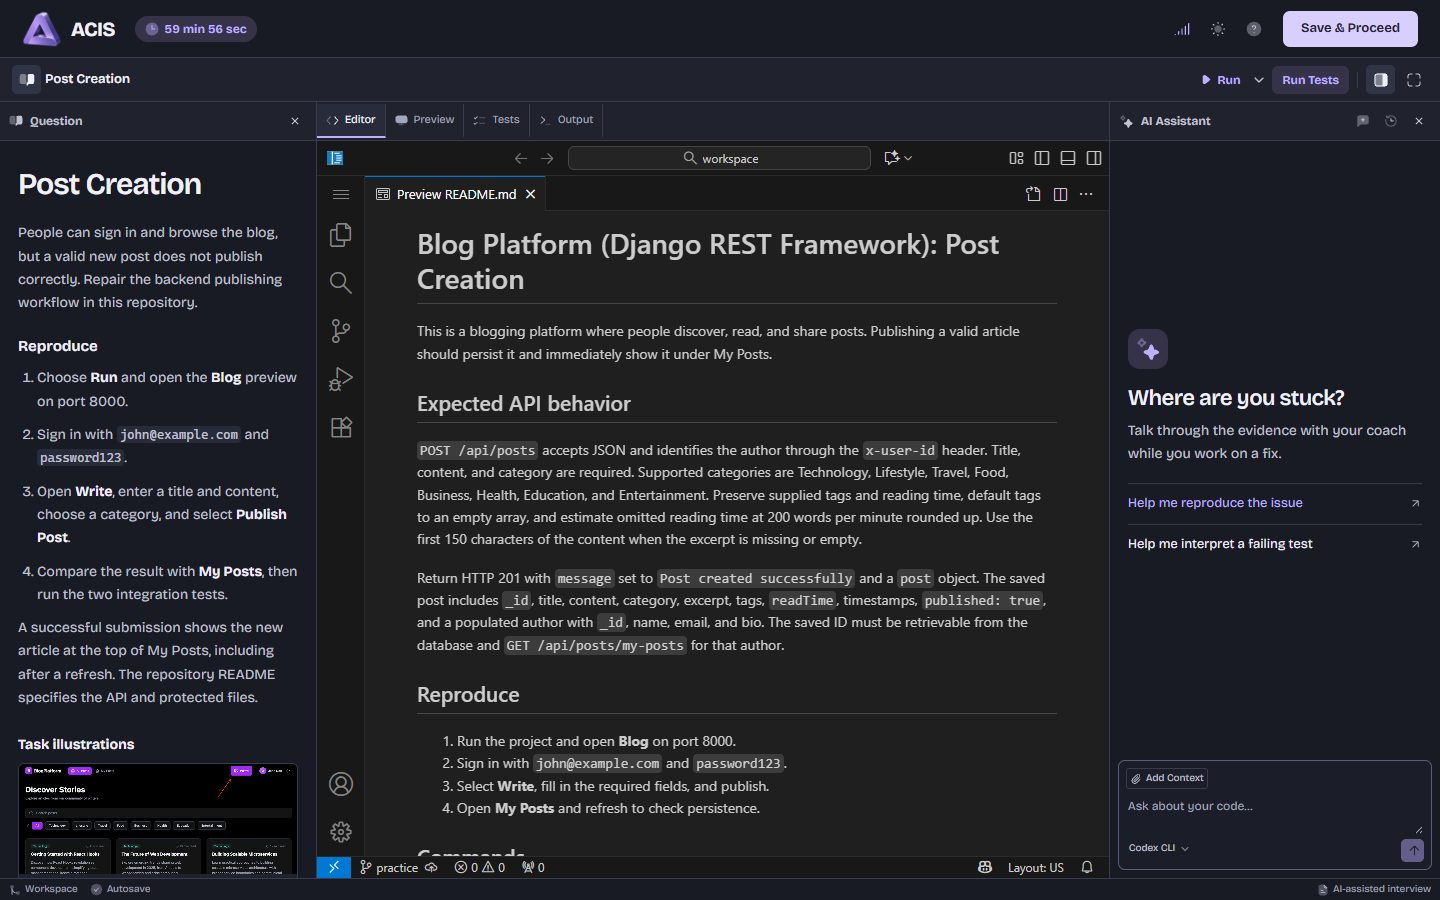
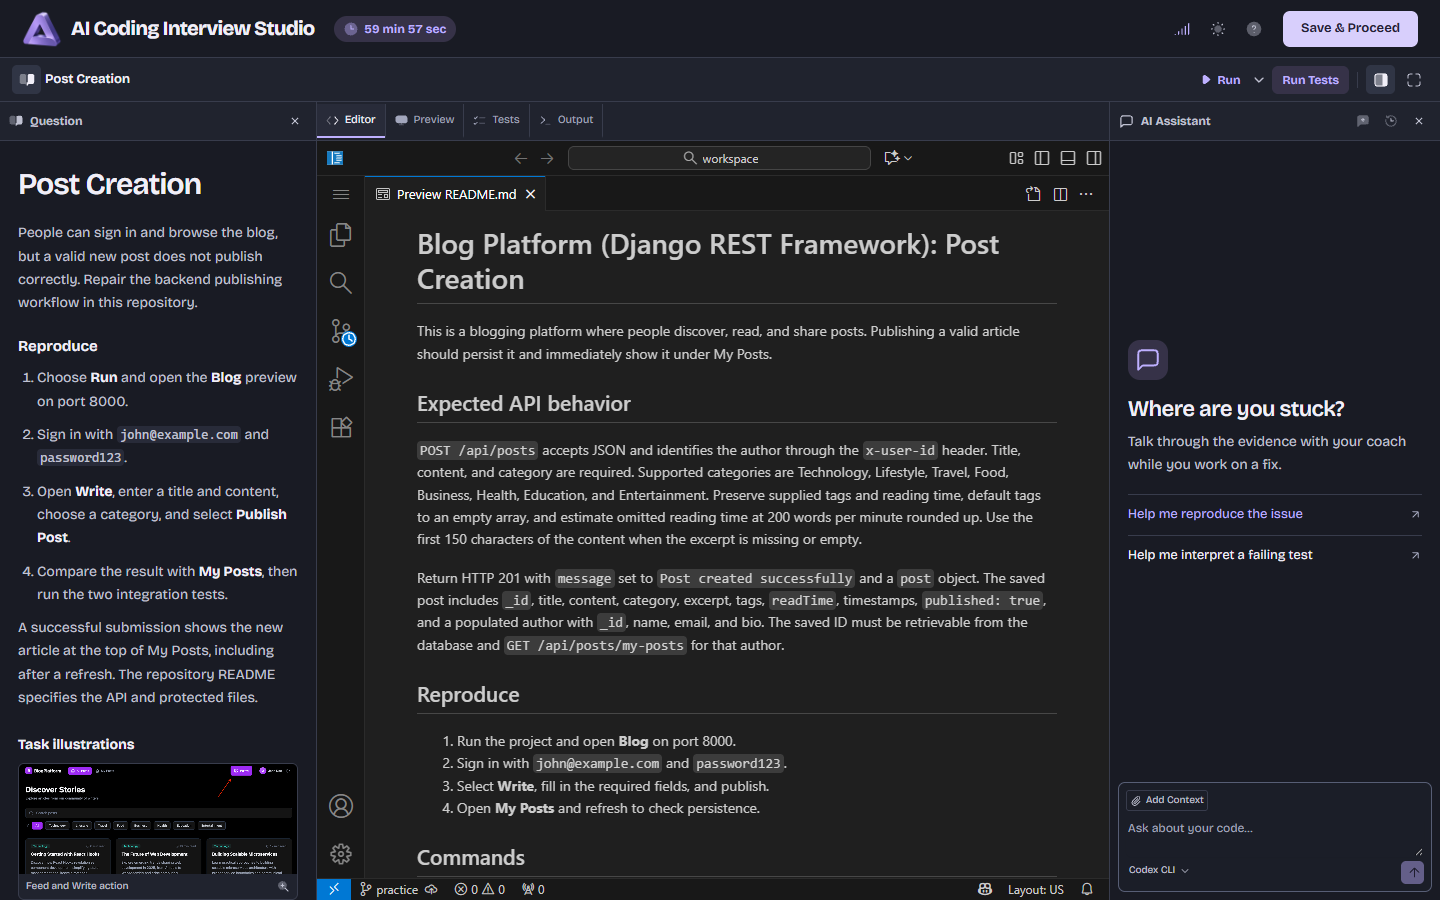
feat(ui): remove the interview status footer

diff --git a/web/tests/workbench.spec.ts b/web/tests/workbench.spec.ts
@@ -266,6 +266,24 @@ test('a learner can resume a running attempt above the phone catalog', async ({
   await expect(page.getByRole('button', { name: 'Save & Proceed' })).toBeInViewport({ ratio: 1 });
 });
 
+test('the interview editor reaches the bottom of the viewport on desktop and phone', async ({
+  page,
+  context,
+}) => {
+  await routeWorkbench(context);
+  await page.goto(origin + '/?attempt=test-attempt');
+  await page.getByRole('button', { name: 'Begin', exact: true }).click();
+  const editor = page.getByTitle('Code editor', { exact: true });
+  await expect(editor).toBeVisible();
+
+  for (const viewport of [{ width: 1280, height: 800 }, { width: 390, height: 844 }]) {
+    await page.setViewportSize(viewport);
+    const bottom = await editor.evaluate((frame) => frame.getBoundingClientRect().bottom);
+    expect(bottom).toBe(viewport.height);
+  }
+  await expect(page.getByText(/^(Workspace|Autosave|AI-assisted interview)$/)).toHaveCount(0);
+});
+
 test('polling preserves editor and chat focus; grading, contextual coaching and submission use the active tab', async ({
   page,
   context,

diff --git a/web/src/Workbench.tsx b/web/src/Workbench.tsx
@@ -2,12 +2,10 @@ import * as m from 'motion/react-m';
 import { useEffect, useRef, useState } from 'react';
 import {
   BookOpen,
-  BadgeCheck,
   ChevronDown,
   Code,
   Maximize,
   FileText,
-  GitBranch,
   ListChecks,
   Monitor,
   PanelRight,
@@ -306,20 +304,6 @@ export function Workbench({
             onHide={() => setAssistant(false)}
           />
         </div>
-        <footer className="desk-status">
-          <span>
-            <GitBranch size={12} />
-            Workspace
-          </span>
-          <span>
-            <BadgeCheck size={13} />
-            Autosave
-          </span>
-          <span className="push">
-            <FileText size={12} />
-            AI-assisted interview
-          </span>
-        </footer>
       </div>
       {illustration && (
         <Dialog wide title="Task illustration" onClose={() => setIllustration(null)}>

diff --git a/web/src/styles.css b/web/src/styles.css
@@ -677,8 +677,7 @@ code {
   flex-direction: column;
 }
 .desk-toolbar,
-.pane-title,
-.desk-status {
+.pane-title {
   display: flex;
   align-items: center;
   gap: 7px;
@@ -937,21 +936,6 @@ iframe {
   width: 100%;
   height: 100%;
   background: var(--panel);
-}
-.desk-status {
-  border-bottom: 0;
-  border-top: 1px solid var(--line);
-  padding: 2px 9px;
-  flex: none;
-  min-height: 22px;
-  color: var(--quiet);
-  font-size: 10px;
-  gap: 12px;
-}
-.desk-status span {
-  display: inline-flex;
-  align-items: center;
-  gap: 4px;
 }
 .coach-pane {
   border-left: 1px solid var(--line);
@@ -1515,9 +1499,6 @@ iframe {
   }
   .workspace-tabs button {
     padding: 0 6px;
-  }
-  .desk-status .push {
-    display: none;
   }
   .desk-toolbar .divider {
     margin: 0 1px;
